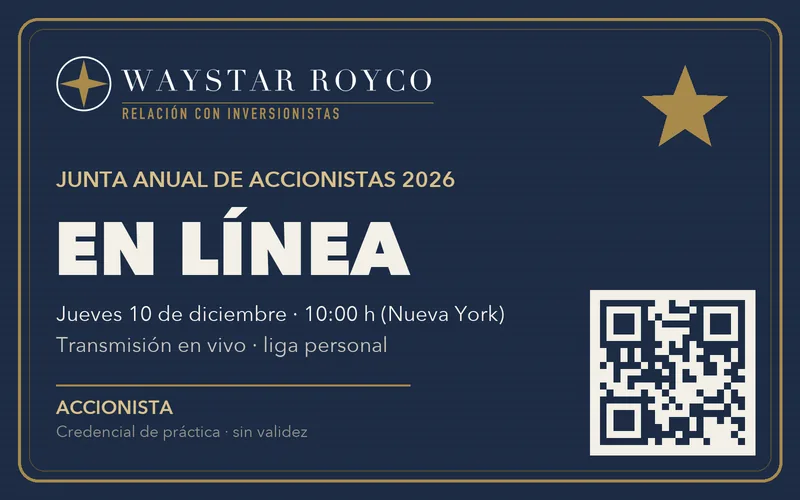
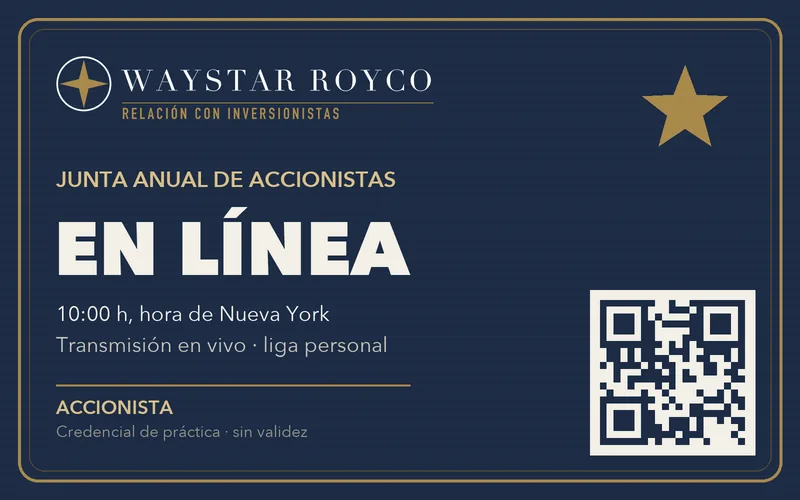
La junta es atemporal: su fecha la da la base
- esquema.sql fija la junta al instalarse (el primer jueves a 28 días o más, 10:00 h de Nueva York) y datos_junta() la entrega; si ya pasó, la recorre.
- CLAUDE.md, la Skill, la tarea de los correos y el respaldo leen la fecha de datos_junta(). Ningún archivo trae una fecha fija.
- Las credenciales ya no llevan fecha dibujada.

Changed region(s): [[0.0625, 0.6, 0.625, 0.66], [0.5, 0.33, 0.5625, 0.39]]

diff --git a/respaldo/sitio/app.js b/respaldo/sitio/app.js
@@ -48,8 +48,36 @@
   async function refrescar() { const n = await contar(); if (n != null) animarNumero(n); else if (!mostrado) $("lista").textContent = "Sea de los primeros accionistas en registrarse"; }
   refrescar(); setInterval(() => { if (!document.hidden) refrescar(); }, 15000);
 
+  // ---------- La fecha de la junta: la da la base (datos_junta); nunca está escrita en un archivo ----------
+  const NY = "America/New_York";
+  function desfaseNY(ymd) {
+    const p = new Intl.DateTimeFormat("en-US", { timeZone: NY, timeZoneName: "shortOffset" }).formatToParts(new Date(ymd + "T15:00:00Z"));
+    const m = ((p.find((x) => x.type === "timeZoneName") || {}).value || "GMT-5").match(/GMT([+-])(\d+)/);
+    return m ? m[1] + m[2].padStart(2, "0") + ":00" : "-05:00";
+  }
+  function siguienteJunta() { // sin base: el primer jueves a 28 días o más, a las 10:00 h de Nueva York
+    const d = new Date(Date.now() + 28 * 864e5);
+    const dia = new Intl.DateTimeFormat("en-US", { timeZone: NY, weekday: "short" }).format(d);
+    const j = new Date(d.getTime() + ((11 - ["Mon", "Tue", "Wed", "Thu", "Fri", "Sat", "Sun"].indexOf(dia) - 1) % 7) * 864e5);
+    const ymd = new Intl.DateTimeFormat("en-CA", { timeZone: NY, year: "numeric", month: "2-digit", day: "2-digit" }).format(j);
+    return new Date(ymd + "T10:00:00" + desfaseNY(ymd));
+  }
+  async function fechaJunta() {
+    if (listo()) {
+      try {
+        const r = await fetch(base() + "/rest/v1/rpc/datos_junta", { method: "POST", headers: encabezados(), body: "{}" });
+        if (r.ok) { const j = await r.json(); if (j && j.fecha) return { fecha: new Date(j.fecha), cierre: new Date(j.cierre_registro) }; }
+      } catch (e) { /* sin base: se calcula aquí */ }
+    }
+    const f = siguienteJunta();
+    return { fecha: f, cierre: new Date(f.getTime() - 16 * 3600e3) };
+  }
+  const enNY = (d, op) => new Intl.DateTimeFormat("es-MX", Object.assign({ timeZone: NY }, op)).format(d);
+  const diaTexto = (d) => { const s = enNY(d, { weekday: "long" }); return s.charAt(0).toUpperCase() + s.slice(1) + " " + enNY(d, { day: "numeric" }) + " de " + enNY(d, { month: "long" }); };
+  const horaTexto = (d) => enNY(d, { hour: "2-digit", minute: "2-digit", hour12: false }) + " h";
+
   // ---------- Cuenta regresiva ----------
-  const meta = new Date(CFG.fechaJunta || "2026-12-10T10:00:00-05:00").getTime();
+  let meta = 0;
   const dos = (n) => String(n).padStart(2, "0");
   function reloj() {
     let s = Math.max(0, Math.floor((meta - Date.now()) / 1000));
@@ -59,7 +87,12 @@
     $("r-min").textContent = dos(Math.floor(s / 60)); $("r-seg").textContent = dos(s % 60);
     return true;
   }
-  if (reloj()) { const id = setInterval(() => { if (!reloj()) clearInterval(id); }, 1000); }
+  fechaJunta().then(({ fecha, cierre }) => {
+    meta = fecha.getTime();
+    $("fecha-junta").textContent = diaTexto(fecha) + ", " + horaTexto(fecha) + ", hora de Nueva York";
+    $("cierre-junta").textContent = "El registro cierra el " + diaTexto(cierre).toLowerCase() + " a las " + horaTexto(cierre) + ".";
+    if (reloj()) { const id = setInterval(() => { if (!reloj()) clearInterval(id); }, 1000); }
+  });
 
   // ---------- Efecto 3D ----------
   const tarjeta = $("tarjeta3d"), escena = $("escena");

diff --git a/respaldo/sitio/index.html b/respaldo/sitio/index.html
@@ -4,10 +4,10 @@
   <meta charset="utf-8">
   <meta name="viewport" content="width=device-width, initial-scale=1, viewport-fit=cover">
   <title>Junta anual de accionistas · Waystar RoyCo</title>
-  <meta name="description" content="Junta anual de accionistas de Waystar RoyCo, jueves 10 de diciembre de 2026. Regístrese en persona o en línea.">
+  <meta name="description" content="Junta anual de accionistas de Waystar RoyCo. Regístrese en persona o en línea.">
   <meta name="theme-color" content="#1C2B44">
   <meta property="og:title" content="Junta anual de accionistas · Waystar RoyCo">
-  <meta property="og:description" content="Jueves 10 de diciembre, 10:00 h, hora de Nueva York. Regístrese en persona o en línea.">
+  <meta property="og:description" content="10:00 h, hora de Nueva York. Regístrese en persona o en línea.">
   <meta property="og:image" content="img/credencial-persona.webp">
   <link rel="preconnect" href="https://fonts.googleapis.com">
   <link rel="preconnect" href="https://fonts.gstatic.com" crossorigin>
@@ -28,8 +28,8 @@
     <section id="inicio" class="portada">
       <div class="texto-portada">
         <p class="etiqueta">Relación con Inversionistas</p>
-        <h1>Junta anual de accionistas 2026</h1>
-        <p class="bajada">Jueves 10 de diciembre, 10:00 h, hora de Nueva York. Asista en persona o en línea, y mande su pregunta al consejo.</p>
+        <h1>Junta anual de accionistas</h1>
+        <p class="bajada"><span id="fecha-junta">10:00 h, hora de Nueva York</span>. Asista en persona o en línea, y mande su pregunta al consejo.</p>
         <div class="acciones">
           <a class="btn" href="#registro">Registrarme</a>
           <a class="enlace" href="#orden">Ver el orden del día</a>
@@ -73,7 +73,7 @@
       </div>
       <figure class="sala aparece">
         <img src="img/sala.webp" width="900" height="500" loading="lazy" alt="Ilustración del auditorio de Waystar RoyCo con el escenario y las butacas">
-        <figcaption>El registro cierra el miércoles 9 de diciembre a las 18:00 h.</figcaption>
+        <figcaption id="cierre-junta">El registro cierra la víspera de la junta a las 18:00 h.</figcaption>
       </figure>
     </section>
 

diff --git a/respaldo/sitio/config.js b/respaldo/sitio/config.js
@@ -1,7 +1,6 @@
-// Conexión con tu proyecto de Supabase y fecha de la junta.
+// Conexión con tu proyecto de Supabase. La fecha de la junta la da la base (datos_junta).
 // Solo la llave "publishable" (sb_publishable_...) va aquí. Nunca la secreta.
 window.JUNTA_CONFIG = {
   supabaseUrl: "https://TU-PROYECTO.supabase.co",
-  supabaseKey: "sb_publishable_PEGA_AQUI_TU_LLAVE",
-  fechaJunta: "2026-12-10T10:00:00-05:00"
+  supabaseKey: "sb_publishable_PEGA_AQUI_TU_LLAVE"
 };

diff --git a/CLAUDE.md b/CLAUDE.md
@@ -8,7 +8,7 @@ El ejemplo es el registro a la **junta anual de accionistas de Waystar RoyCo**, 
 Una página de registro, primero para celular, que se vea seria y de primer nivel:
 
 1. **Portada:** la credencial de accionista en grande con efecto 3D (se inclina con el mouse o al mover el celular; en iPhone, pide el permiso de movimiento con `DeviceOrientationEvent.requestPermission()` al primer toque; respeta `prefers-reduced-motion`), el nombre de la junta, la fecha y el botón "Registrarme".
-2. **Cuenta regresiva** a la junta, en vivo.
+2. **Cuenta regresiva** a la junta, en vivo, con la fecha que da la función `datos_junta` de la base. La fecha nunca se escribe en un archivo: cambia en cada instalación.
 3. **Contador:** "Ya hay N accionistas registrados", que se actualiza solo cada 15 segundos con la función `contar_asistentes`.
 4. **Orden del día:** los cuatro puntos de la Skill, con íconos.
 5. **Modalidad:** al tocar "En persona" o "En línea" cambia la credencial y se explica cómo se asiste.
@@ -24,6 +24,7 @@ Nada de cifras de la empresa, votos, resultados ni declaraciones inventadas.
 - **Supabase** con `fetch`, sin librerías:
   - Registrar: `POST https://<proyecto>.supabase.co/rest/v1/asistentes` con encabezados `apikey`, `Content-Type: application/json` y `Prefer: return=minimal`, y solo las columnas `nombre`, `correo`, `modalidad`, `pregunta`.
   - Contador: `POST /rest/v1/rpc/contar_asistentes`.
+  - Fecha de la junta: `POST /rest/v1/rpc/datos_junta` regresa `fecha` y `cierre_registro`. Muéstralas en español y con la zona de Nueva York (día de la semana, día, mes y hora). Si la base no responde, calcula el primer jueves a 28 días o más de hoy, a las 10:00 h de Nueva York.
   - Con una llave `sb_publishable_...` no mandes `Authorization`.
   - Si el correo ya está registrado, la base responde `409` (código `23505`): dile "Ya está registrado con ese correo".
 - **Seguridad:** solo la llave *publishable* va en `sitio/config.js`. Nunca la secreta (`sb_secret_...`) ni la `service_role`. La página **nunca** lee la tabla `asistentes`: el público solo puede registrarse y ver el número.
@@ -35,7 +36,7 @@ Nada de cifras de la empresa, votos, resultados ni declaraciones inventadas.
 
 - `supabase/esquema.sql` crea la tabla, sus permisos, el contador y el aviso a Claude. Se corre una vez con el conector de Supabase en el proyecto que diga la persona.
 - `supabase/tarea_correos.md` trae el prompt de la tarea programada que manda los correos de confirmación y cómo conectarla.
-- El asesor de seguridad de Supabase avisa que el público puede ejecutar `contar_asistentes`. Es a propósito: solo regresa el número.
+- El asesor de seguridad de Supabase avisa que el público puede ejecutar `contar_asistentes` y `datos_junta`. Es a propósito: una regresa el número y la otra, la fecha.
 
 ## Cómo se trabaja
 

diff --git a/.claude/skills/marca-waystar/SKILL.md b/.claude/skills/marca-waystar/SKILL.md
@@ -34,11 +34,11 @@ Empresa de medios y entretenimiento **de ficción**, de la serie *Succession*. E
 
 | Dato | Valor |
 |---|---|
-| Evento | Junta anual de accionistas de Waystar RoyCo 2026 |
-| Fecha | Jueves 10 de diciembre de 2026, 10:00 h, hora de Nueva York |
+| Evento | Junta anual de accionistas de Waystar RoyCo |
+| Fecha | La da la función `datos_junta` de la base: un jueves a cuatro semanas o más de la instalación, 10:00 h, hora de Nueva York. Nunca se escribe fija |
 | En persona | Auditorio de Waystar RoyCo, Nueva York. Se entra con la credencial que llega por correo |
 | En línea | Transmisión en vivo. La liga personal llega por correo un día antes |
-| Registro | Cierra el miércoles 9 de diciembre a las 18:00 h |
+| Registro | Cierra la víspera de la junta a las 18:00 h (también lo da `datos_junta`) |
 | Orden del día | 1. Mensaje del presidente del consejo. 2. Informe del año. 3. Elección de consejeros. 4. Preguntas de los accionistas |
 | Preguntas | Una por persona, de máximo 280 caracteres. El consejo contesta en la junta las que alcancen; las demás, por correo |
 

diff --git a/supabase/tarea_correos.md b/supabase/tarea_correos.md
@@ -20,8 +20,8 @@ Si un correo se ve mal escrito (gmial.com, dominio
 inexistente), márcalo 'invalido' con el motivo en
 detalle_correo y no le escribas. A los demás
 mándales con Gmail un correo corto, de usted, con
-su nombre, su modalidad y la junta: jueves 10 de
-diciembre, 10:00 h, hora de Nueva York, en el
+su nombre, su modalidad y la junta: fecha y hora
+de select datos_junta(), hora de Nueva York, en el
 auditorio de Waystar RoyCo. En persona, entra con
 su credencial; en línea, la liga le llega un día
 antes. Al final, que responda "baja" para darse de
